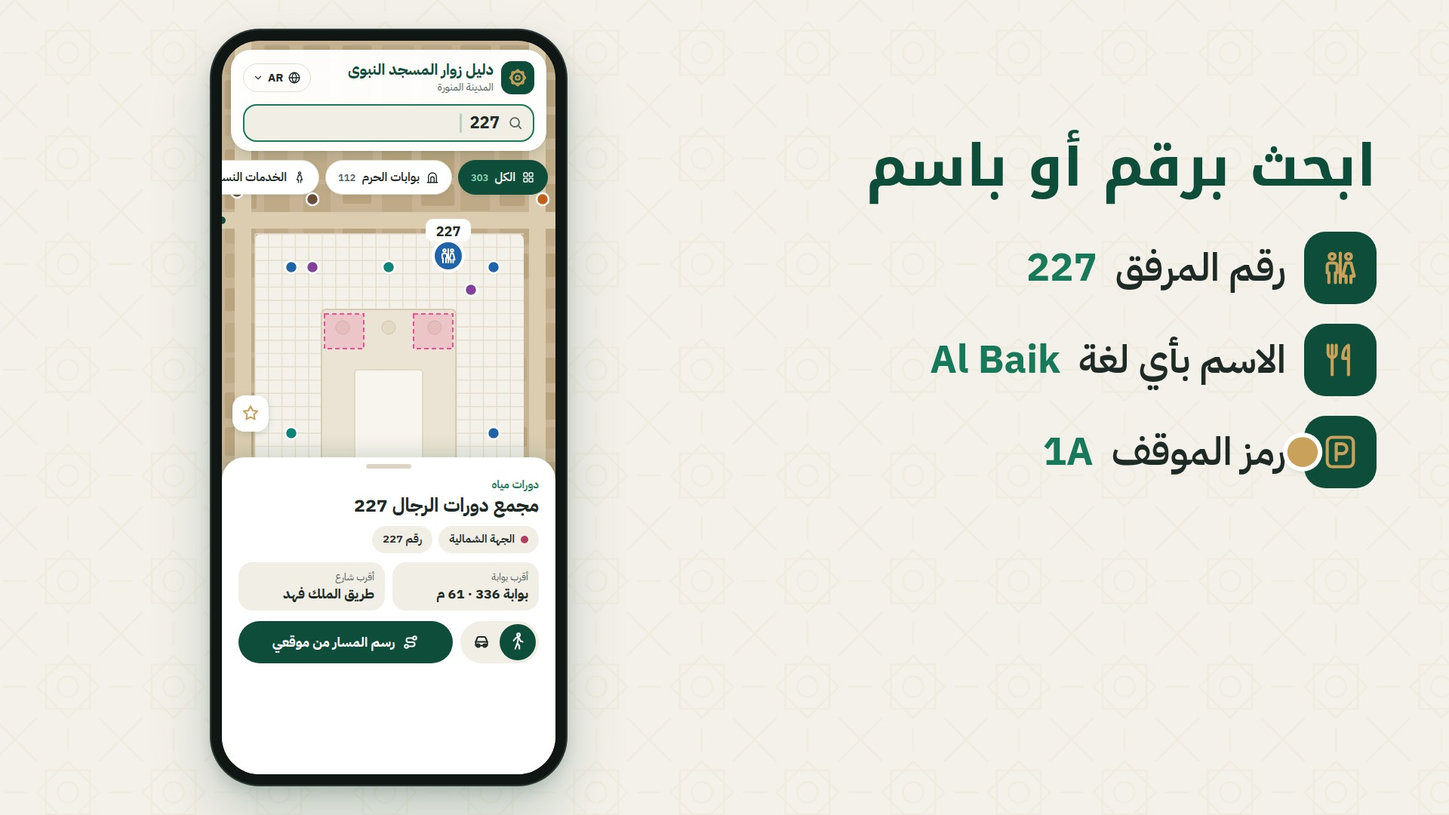
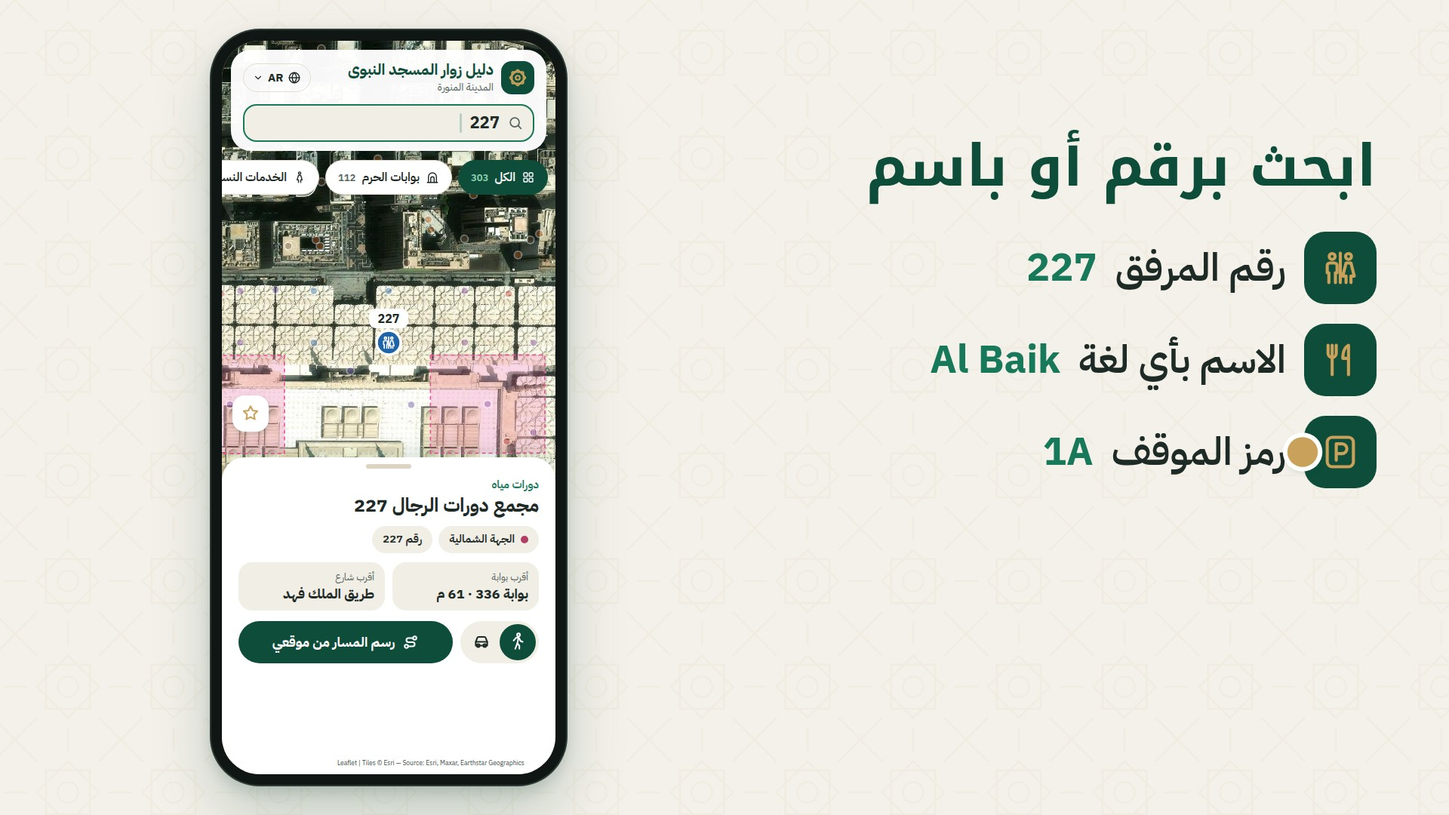
Courtyard film: the app's real map (Esri base) with real places and routes
The phone map now uses the app's satellite base at its real scale, with the POIs,
women's prayer areas, the walking route to 227 and the drive to 226 through car
park 9 level A as computed by the app's own router.

Claude-Session: https://claude.ai/code/session_01W7SsWz3AA39gRjAKeSkiDN

Changed region(s): [[0.1562, 0.0611, 0.4062, 0.5806], [0.1562, 0.0306, 0.375, 0.0917], [0.25, 0.9167, 0.3438, 0.9472]]

diff --git a/video/courtyard/src.html b/video/courtyard/src.html
@@ -36,6 +36,8 @@ svg.ic { display: block; }
 #phone { left: 3160px; top: 40px; width: 470px; height: 1000px; border-radius: 64px; background: #101614; box-shadow: 0 0 0 2px #2b3833, 0 40px 80px rgb(14 77 58 / .22), 0 8px 20px rgb(30 42 38 / .18); }
 #scr { position: absolute; left: 14px; top: 14px; width: 442px; height: 972px; border-radius: 50px; overflow: hidden; background: #c8b494; }
 #scr .layer { position: absolute; inset: 0; }
+#sat { position: absolute; left: 0; top: 0; transform-origin: 0 0; max-width: none; }
+#attr { position: absolute; right: 34px; bottom: 6px; z-index: 30; padding: 2px 7px 3px; border-radius: 6px; background: rgb(255 255 255 / .82); color: #3d4a45; font: 500 8.5px/1.2 var(--f); direction: ltr; white-space: nowrap; }
 .card-w { background: rgb(255 255 255 / .97); border-radius: 26px; box-shadow: 0 6px 18px rgb(14 77 58 / .14), 0 1px 3px rgb(30 42 38 / .1); }
 #hdr { position: absolute; left: 12px; top: 12px; width: 418px; height: 134px; padding: 14px 16px; }
 #hdr .row { display: flex; align-items: center; gap: 10px; }
@@ -145,7 +147,7 @@ svg.ic { display: block; }
 
   <!-- the phone -->
   <div id="phone" class="abs"><div id="scr">
-    <svg class="layer" id="map" width="442" height="972" viewBox="0 0 442 972"></svg>
+    <div class="layer" id="mapv"><img id="sat" src="map-z18.jpg" alt=""><svg class="layer" id="map" width="442" height="972" viewBox="0 0 442 972"></svg></div>
     <div id="starbtn"></div>
     <div id="hdr" class="card-w"><div class="row" id="hrow"><span class="tile" id="h-tile"></span><div class="tt"><div class="t" id="h-t"></div><div class="c" id="h-c"></div></div><span class="lang" id="h-lang"></span></div>
       <div class="sb" id="h-sb"><span id="h-si"></span><span id="h-ph"></span><span class="q" id="h-q"></span><span class="caret" id="h-caret"></span></div></div>
@@ -159,10 +161,10 @@ svg.ic { display: block; }
       <div class="foot"><span class="tog" id="tog1"><span class="kn" style="left:52px"></span><span class="o" style="left:4px" id="t1c"></span><span class="o" style="left:52px;color:#fff" id="t1w"></span></span><span class="btn" style="flex:1" id="rbtn"><span id="rbtn-i"></span>رسم المسار من موقعي</span></div></div>
     <div id="sh-route" class="sheet" style="height:300px"><span class="grab"></span>
       <div class="k" id="sr-k">مسار المشي</div><div class="h">مجمع دورات الرجال 227</div>
-      <div style="display:flex;align-items:baseline;gap:18px;margin-top:8px"><span class="big"><span id="sr-m" style="direction:ltr;display:inline-block">420</span> م</span><span class="big" style="color:var(--g700)"><span id="sr-min" style="direction:ltr;display:inline-block">6</span> د</span><span class="chip"><span class="dotc" style="--c:#b03f66"></span>الشمالية</span></div>
+      <div style="display:flex;align-items:baseline;gap:18px;margin-top:8px"><span class="big"><span id="sr-m" style="direction:ltr;display:inline-block">415</span> م</span><span class="big" style="color:var(--g700)"><span id="sr-min" style="direction:ltr;display:inline-block">6</span> د</span><span class="chip"><span class="dotc" style="--c:#b03f66"></span>الشمالية</span></div>
       <div class="foot"><span class="tog" id="tog2"><span class="kn" id="kn2" style="left:52px"></span><span class="o" style="left:4px" id="t2c"></span><span class="o" style="left:52px" id="t2w"></span></span><span class="btn" style="flex:1;background:#f1eee6;color:var(--ink)" id="exitb"><span id="exit-i"></span><span id="exit-t">إنهاء المسار</span></span></div></div>
     <div id="sh-car" class="sheet" style="height:330px"><span class="grab"></span>
-      <div class="k">مسار بالسيارة</div><div class="h">مجمع دورات الرجال 227</div>
+      <div class="k">مسار بالسيارة</div><div class="h">مجمع دورات الرجال 226</div>
       <div class="chips"><span class="chip" style="background:var(--g900);color:#fff">موقف رقم 9 · الدور A</span><span class="chip">الإطار الأصفر: الطريق في الدور A</span></div>
       <div class="foot"><span class="btn" style="flex:1" id="cexit"><span id="cexit-i"></span>طريق الخروج</span></div></div>
     <div id="story"><div class="bars"><div class="bar"><i id="sb1"></i></div><div class="bar"><i id="sb2"></i></div><div class="bar"><i id="sb3"></i></div></div>
@@ -171,7 +173,7 @@ svg.ic { display: block; }
       <div class="tx" id="st-tx"></div>
       <div class="bt" id="st-bt"><span><span id="st-b1"></span>اعرضه على الخريطة</span><span><span id="st-b2"></span>المسار إليه</span></div>
       <div class="pray" id="st-pray"><div class="p1">اللهم صل وسلم على نبينا محمد</div><div class="p2">صلِّ على النبي ﷺ</div></div></div>
-  </div></div>
+  <div id="attr">Leaflet | Tiles © Esri — Source: Esri, Maxar, Earthstar Geographics</div></div></div>
 
   <!-- headline column, one block per scene -->
   <div class="abs col">
@@ -184,7 +186,7 @@ svg.ic { display: block; }
       <div class="row" id="p3b"><span class="ti" id="p3b-i"></span>الاسم بأي لغة <span class="lt">Al Baik</span></div>
       <div class="row" id="p3c"><span class="ti" id="p3c-i"></span>رمز الموقف <span class="lt">1A</span></div></div>
     <div class="hl" id="p4" style="top:170px"><h2>امشِ إليه</h2>
-      <div class="big2"><b id="b-m">420</b><span>متر</span></div>
+      <div class="big2"><b id="b-m">415</b><span>متر</span></div>
       <div class="big2" style="margin-top:-6px"><b id="b-min" style="font-size:110px">6</b><span>دقائق تقريباً</span></div>
       <div class="note">لا يُطلب موقعك حتى تضغط</div></div>
     <div class="hl" id="p5" style="top:170px"><h2>بالسيارة</h2>
@@ -242,48 +244,85 @@ $('rtrack').innerHTML = [...DATA.NAMES, ...DATA.NAMES].map((x) => `<span dir="${
 // filter pills (real labels and counts from the app)
 const PILLS = [['grid', 'الكل', 303], ['gate', 'بوابات الحرم', 112], ['women', 'الخدمات النسائية', 35], ['toilets', 'دورات مياه', 40], ['hotel', 'فنادق', 43], ['food', 'مطاعم ومقاهي', 44], ['landmark', 'معالم', 38], ['parking', 'مواقف السيارات', 13]];
 
-// ---- the stylised aerial plan (no tiles): ochre city, ivory courtyard grid, pale-stone mosque, red roofs south ----
-(function drawMap() {
+// ---- the app's own map: its satellite base (Esri World Imagery, z18) and everything at its real coordinates ----
+// GEO comes from the app's data and router (tools/geo.test.ts); TILES from fetch-tiles.py.
+const merc = (ll) => { const n = 256 * 2 ** 18; return [(ll[1] + 180) / 360 * n, (1 - Math.asinh(Math.tan(ll[0] * Math.PI / 180)) / Math.PI) / 2 * n]; };
+const LAT0 = 24.468, M_LAT = 110574, M_LNG = 111320 * Math.cos(LAT0 * Math.PI / 180);
+function line(path) { const cum = [0]; for (let i = 1; i < path.length; i++) cum.push(cum[i - 1] + Math.hypot((path[i][0] - path[i - 1][0]) * M_LAT, (path[i][1] - path[i - 1][1]) * M_LNG)); return { path, cum, L: cum[cum.length - 1] }; }
+function along(r, d) {
+  d = clamp(d, 0, r.L); let i = 1; while (i < r.cum.length - 1 && r.cum[i] < d) i++;
+  const u = (d - r.cum[i - 1]) / (r.cum[i] - r.cum[i - 1] || 1), a = r.path[i - 1], b = r.path[i];
+  return [lerp(a[0], b[0], u), lerp(a[1], b[1], u)];
+}
+function cut(r, d0, d1) { if (d1 <= d0) return []; const out = [along(r, d0)]; for (let i = 0; i < r.path.length; i++) if (r.cum[i] > d0 && r.cum[i] < d1) out.push(r.path[i]); out.push(along(r, d1)); return out; }
+const dedupe = (parts) => parts.flatMap((p, i) => (i ? p.path.slice(1) : p.path));
+const WALKR = line(GEO.walk.path);
+const CARR = line(dedupe(GEO.drive.parts));
+let acc = 0; const CARPARTS = GEO.drive.parts.map((p) => { const L = line(p.path).L; const r = { on: p.on, d0: acc, d1: acc + L }; acc += L; return r; });
+const EXITR = line(dedupe(GEO.exit.parts));
+const bboxC = (pts) => { const la = pts.map((p) => p[0]), lo = pts.map((p) => p[1]); return [(Math.min(...la) + Math.max(...la)) / 2, (Math.min(...lo) + Math.max(...lo)) / 2]; };
+const C0 = [24.468431, 39.611024], WALKC = bboxC(GEO.walk.path), CARC = bboxC(CARR.path);
+// the map's own camera inside the phone: [t, lat/lng held at (221, sy), zoom, sy]
+const MAPCAM = [[0, C0, 16.2, 540], [13.5, C0, 16.2, 540], [14.5, GEO.p227, 17.2, 400], [18.5, GEO.p227, 17.2, 400], [19.3, WALKC, 17.45, 440],
+  [26.5, WALKC, 17.45, 440], [27.3, CARC, 16.3, 430], [32.6, CARC, 16.3, 430], [33.5, C0, 16.2, 540], [60, C0, 16.2, 540]];
+function mapAt(t) {
+  let i = 1; while (i < MAPCAM.length - 1 && MAPCAM[i][0] < t) i++;
+  const [t0, a0, z0, y0] = MAPCAM[i - 1], [t1, a1, z1, y1] = MAPCAM[i], u = eio(pr(t, t0, t1));
+  const A0 = merc(a0), A1 = merc(a1);
+  return { X: lerp(A0[0], A1[0], u), Y: lerp(A0[1], A1[1], u), k: 2 ** (lerp(z0, z1, u) - 18), sy: lerp(y0, y1, u) };
+}
+const proj = (ll, m) => { const [X, Y] = merc(ll); return [221 + (X - m.X) * m.k, m.sy + (Y - m.Y) * m.k]; };
+const d3 = (pts, m) => pts.map((ll, i) => { const [x, y] = proj(ll, m); return `${i ? 'L' : 'M'}${x.toFixed(1)} ${y.toFixed(1)}`; }).join('');
+// chevrons every 30 px along a projected line, pointing the way
+function chevrons(pts, m, col) {
+  const P = pts.map((ll) => proj(ll, m)); let s = '', next = 16, run = 0;
+  for (let i = 1; i < P.length; i++) {
+    const [ax, ay] = P[i - 1], [bx, by] = P[i], seg = Math.hypot(bx - ax, by - ay), ang = Math.atan2(by - ay, bx - ax) * 180 / Math.PI;
+    while (next <= run + seg) { const u = (next - run) / seg; s += `<path transform="translate(${(ax + (bx - ax) * u).toFixed(1)} ${(ay + (by - ay) * u).toFixed(1)}) rotate(${ang.toFixed(1)})" d="M-3 -4.5L2 0L-3 4.5" fill="none" stroke="${col}" stroke-width="2.2" stroke-linecap="round" stroke-linejoin="round"/>`; next += 30; }
+    run += seg;
+  }
+  return s;
+}
+const badge = (xy, text, bg, fg, bd = 'none') => `<g transform="translate(${xy[0].toFixed(1)} ${xy[1].toFixed(1)})"><rect x="${-text.length * 6 - 10}" y="-14" width="${text.length * 12 + 20}" height="28" rx="9" fill="${bg}" stroke="${bd}" stroke-width="2.5"/><text x="0" y="6.5" text-anchor="middle" font-family="IBM Plex Sans Arabic" font-weight="700" font-size="17" fill="${fg}" direction="ltr">${text}</text></g>`;
+const pin = (xy, label, col, icon, op) => `<g opacity="${op}"><g transform="translate(${xy[0].toFixed(1)} ${xy[1].toFixed(1)})"><circle r="16" fill="${col}" stroke="#fff" stroke-width="3.5"/><g transform="translate(-10 -10)" color="#fff">${ic(icon, 20, 2)}</g>${label ? `<g transform="translate(0 -32)"><rect x="-26" y="-13" width="52" height="26" rx="9" fill="#fff"/><text x="0" y="6" text-anchor="middle" font-family="IBM Plex Sans Arabic" font-weight="700" font-size="16" fill="#1e2a26">${label}</text></g>` : ''}</g></g>`;
+
+function renderMap(t) {
+  const m = mapAt(t);
+  set('sat', { transform: `translate(${(221 - (m.X - TILES.x0 * 256) * m.k).toFixed(2)}px, ${(m.sy - (m.Y - TILES.y0 * 256) * m.k).toFixed(2)}px) scale(${m.k})` });
   let s = '';
-  let seed = 7; const rnd = () => ((seed = (seed * 16807) % 2147483647) / 2147483647);
-  for (let y = 0; y < 972; y += 46) for (let x = 0; x < 442; x += 52) { const w = 30 + rnd() * 16, h = 26 + rnd() * 14; s += `<rect x="${x + 4}" y="${y + 6}" width="${w}" height="${h}" rx="3" fill="${rnd() > .5 ? '#b9a37f' : '#bfaa88'}"/>`; }
-  s += '<path d="M0 238H442M0 760H442M28 0V972M418 0V972" stroke="#dccdb1" stroke-width="22"/>';
-  s += '<rect x="44" y="256" width="356" height="484" rx="8" fill="#f4f1ea"/>';
-  let g = '';
-  for (let x = 44; x <= 400; x += 17.8) g += `M${x} 256V740`;
-  for (let y = 256; y <= 740; y += 17.6) g += `M44 ${y}H400`;
-  s += `<path d="${g}" stroke="#e4ddcd" stroke-width="1.4"/>`;
-  s += '<rect x="132" y="356" width="178" height="244" rx="6" fill="#ebe3d3" stroke="#d6cbb5" stroke-width="2"/>';
-  s += '<rect x="176" y="436" width="90" height="124" rx="4" fill="#f8f5ee" stroke="#ddd3bf" stroke-width="1.5"/>';
-  for (const [cx, cy] of [[160, 380], [282, 380], [160, 580], [282, 580], [221, 380]]) s += `<circle cx="${cx}" cy="${cy}" r="9" fill="#e3d9c5" stroke="#d2c6ae"/>`;
-  s += '<rect x="136" y="362" width="52" height="46" fill="rgb(236 79 154 / .2)" stroke="#ec4f9a" stroke-width="2" stroke-dasharray="6 4"/>';
-  s += '<rect x="254" y="362" width="52" height="46" fill="rgb(236 79 154 / .2)" stroke="#ec4f9a" stroke-width="2" stroke-dasharray="6 4"/>';
-  for (let x = 64; x < 380; x += 54) s += `<rect x="${x}" y="702" width="44" height="26" rx="2" fill="#b5574a"/>`;
-  const DOTS = [['men', 92, 300], ['women', 120, 300], ['men', 360, 300], ['women', 330, 330], ['acc', 92, 520], ['men', 360, 520], ['women', 96, 640], ['men', 352, 650], ['hotel', 20, 200], ['food', 425, 210], ['hotel', 410, 800], ['food', 30, 820], ['land', 221, 640], ['emg', 330, 690], ['acc', 221, 300], ['hotel', 120, 210], ['food', 300, 790]];
-  for (const [c, x, y] of DOTS) s += `<circle cx="${x}" cy="${y}" r="8" fill="var(--${c})" stroke="#fff" stroke-width="2.5"/>`;
-  // walking route (around the mosque, never through it)
-  s += '<path id="walk" d="M48 708V300Q48 285 63 285H300" fill="none" stroke="#17785a" stroke-width="12" stroke-linecap="round" stroke-linejoin="round" pathLength="1" stroke-dasharray="0 2" opacity=".25"/>';
-  s += '<path id="walk-lit" d="M48 708V300Q48 285 63 285H300" fill="none" stroke="#17785a" stroke-width="12" stroke-linecap="round" stroke-linejoin="round" pathLength="1" stroke-dasharray="0 2"/>';
-  s += '<path id="walk-chev" d="M48 708V300Q48 285 63 285H300" fill="none" stroke="#fff" stroke-width="3" stroke-dasharray="7 16" stroke-linecap="round" opacity="0"/>';
-  // car: street → underground ring (clockwise, one-way) → yellow ramp up to level A → P 9A; green exit ramp
-  s += '<g id="ug" opacity="0"><rect x="0" y="0" width="442" height="972" fill="rgb(14 77 58 / .32)"/>';
-  s += '<path d="M120 300H322Q340 300 340 318V350Q340 368 322 368H120Q102 368 102 350V318Q102 300 120 300Z" fill="none" stroke="#2c4a3f" stroke-width="30"/>';
-  let ch = '';
-  for (const [x, y, a] of [[170, 300, 0], [250, 300, 0], [340, 334, 90], [270, 368, 180], [180, 368, 180], [102, 334, 270]]) ch += `<path transform="translate(${x} ${y}) rotate(${a})" d="M-6 -7L4 0L-6 7" fill="none" stroke="#fff" stroke-width="3" stroke-linecap="round" stroke-linejoin="round"/>`;
-  s += ch;
-  s += '<path d="M340 330H404V238" fill="none" stroke="#3f7d20" stroke-width="10" stroke-dasharray="10 8" stroke-linecap="round"/>';
-  s += '<path id="ramp" d="M110 300V262H228" fill="none" stroke="#f5d90a" stroke-width="12" stroke-linecap="round" stroke-linejoin="round"/>';
-  s += '<g transform="translate(110 318)"><rect x="-24" y="-16" width="48" height="32" rx="10" fill="#f5d90a"/><text x="0" y="8" text-anchor="middle" font-family="IBM Plex Sans Arabic" font-weight="700" font-size="20" fill="#1e2a26">A↑</text></g>';
-  s += '<g transform="translate(228 262)"><rect x="-34" y="-18" width="68" height="36" rx="10" fill="#fff" stroke="#1f64a8" stroke-width="3"/><text x="0" y="8" text-anchor="middle" font-family="IBM Plex Sans Arabic" font-weight="700" font-size="20" fill="#1f64a8" direction="ltr">P 9A</text></g></g>';
-  s += '<path id="car" d="M0 238H150Q166 238 166 254V300H322Q340 300 340 318V350Q340 368 322 368H120Q102 368 102 350V318Q102 300 110 300" fill="none" stroke="#0e4d3a" stroke-width="10" stroke-linecap="round" stroke-linejoin="round" pathLength="1" stroke-dasharray="0 2"/>';
-  // destination marker 227 (men's restrooms)
-  s += '<g transform="translate(300 285)"><circle r="20" fill="#1f64a8" stroke="#fff" stroke-width="4"/><g transform="translate(-12 -12)" color="#fff">' + ic('toilets', 24, 2) + '</g></g>';
-  s += '<g transform="translate(300 252)"><rect x="-30" y="-16" width="60" height="30" rx="10" fill="#fff"/><text x="0" y="7" text-anchor="middle" font-family="IBM Plex Sans Arabic" font-weight="700" font-size="18" fill="#1e2a26">227</text></g>';
-  s += '<circle cx="48" cy="708" r="9" fill="#fff" stroke="#17785a" stroke-width="3"/>';
+  for (const poly of GEO.women) s += `<path d="${d3([...poly, poly[0]], m)}" fill="rgb(236 79 154 / .22)" stroke="#ec4f9a" stroke-width="1.6" stroke-dasharray="5 4"/>`;
+  const focus = 1 - 0.6 * vis(t, 13.6, 32.8, 0.6, 0.6);  // places dim while a route is shown
+  for (const [la, lo, c] of GEO.pois) { const [x, y] = proj([la, lo], m); if (x > -10 && x < 452 && y > -10 && y < 982) s += `<circle cx="${x.toFixed(1)}" cy="${y.toFixed(1)}" r="5" fill="var(--${c})" stroke="#fff" stroke-width="1.8" opacity="${focus}"/>`; }
+  // walking route: drawn, then walked; the part already walked is gone
+  const wOn = 1 - pr(t, 26.8, 27.2), draw = eo(pr(t, 18.6, 19.5)) * WALKR.L, P = eio(pr(t, 19.4, 24.6)) * WALKR.L;
+  if (wOn > 0 && draw > 0) {
+    const rest = cut(WALKR, P, draw);
+    s += `<g opacity="${wOn}"><path d="${d3(cut(WALKR, 0, draw), m)}" fill="none" stroke="#17785a" stroke-width="9" stroke-linecap="round" stroke-linejoin="round" opacity=".25"/>`;
+    if (rest.length > 1) s += `<path d="${d3(rest, m)}" fill="none" stroke="#17785a" stroke-width="9" stroke-linecap="round" stroke-linejoin="round"/>${chevrons(rest, m, '#fff')}`;
+    const st = proj(WALKR.path[0], m); s += `<circle cx="${st[0]}" cy="${st[1]}" r="7" fill="#fff" stroke="#17785a" stroke-width="3"/></g>`;
+  }
+  // driving: car park 9, level B round to the yellow ramp, up to level A (yellow frame), into the lot; then the way out
+  const cOn = vis(t, 27.1, 32.4, 0.3, 0.6), cd = eo(pr(t, 27.1, 27.9)) * CARR.L, CP = eio(pr(t, 27.6, 31.4)) * CARR.L;
+  if (cOn > 0) {
+    s += `<g opacity="${cOn}">`;
+    const ex = eo(pr(t, 31.0, 31.5));
+    if (ex > 0) s += `<path d="${d3(EXITR.path, m)}" fill="none" stroke="var(--ramp-down)" stroke-width="6" stroke-dasharray="9 7" stroke-linecap="round" opacity="${ex}"/>`;
+    for (const part of CARPARTS) {
+      const seg = cut(CARR, Math.max(part.d0, CP), Math.min(part.d1, cd)); if (seg.length < 2) continue;
+      if (part.on !== 'B') s += `<path d="${d3(seg, m)}" fill="none" stroke="var(--ramp-up)" stroke-width="13" stroke-linecap="round" stroke-linejoin="round"/>`;
+      s += `<path d="${d3(seg, m)}" fill="none" stroke="#0e4d3a" stroke-width="7" stroke-linecap="round" stroke-linejoin="round"/>${chevrons(seg, m, '#fff')}`;
+    }
+    s += badge(proj(GEO.drive.ramp, m).map((v, i) => v + (i ? 22 : 0)), 'A↑', 'var(--ramp-up)', '#1e2a26');
+    s += badge(proj(GEO.drive.gate, m).map((v, i) => v - (i ? 24 : 0)), 'P 9A', '#fff', '#1f64a8', '#1f64a8');
+    s += '</g>';
+  }
+  s += pin(proj(GEO.p227, m), '227', 'var(--men)', 'toilets', vis(t, 13.4, 27.0, 0.4, 0.4));
+  s += pin(proj(GEO.p226, m), '226', 'var(--men)', 'toilets', vis(t, 27.2, 32.6, 0.4, 0.5));
+  s += pin(proj(GEO.p37, m), '', 'var(--g900)', 'dome', vis(t, 33.8, 38.8, 0.4, 0.5));
   $('map').innerHTML = s;
-})();
-const WALK = $('walk'), CAR = $('car'), RAMP = $('ramp');
-const WL = WALK.getTotalLength(), CL = CAR.getTotalLength(), RL = RAMP.getTotalLength();
+  return m;
+}
+const geoPH = (ll, t) => PH(...proj(ll, mapAt(t)));
 
 // ---- time ----
 const T = 60, FPS = 60;
@@ -298,7 +337,6 @@ const vis = (t, a, b, i = 0.5, o = 0.5) => Math.min(pr(t, a, a + i), 1 - pr(t, b
 
 // phone screen origin in world coordinates
 const SX = 3174, SY = 54, PH = (x, y) => [SX + x, SY + y];
-const onPath = (el, L, u) => { const p = el.getPointAtLength(u * L); return PH(p.x, p.y); };
 const QRC = [-2440 + 60 + 290, 100 + 60 + 290];
 
 // one camera: [t, cx, cy, zoom], zoom in log space
@@ -322,13 +360,12 @@ const MOVES = [
   [13.5, 13.9, PH(221, 192), 40],
   [14.6, 15.2, [4606, 355], 120], [15.6, 16.0, [4606, 477], 40], [16.4, 16.8, [4606, 599], 40],
   [17.2, 18.0, PH(190, 932), 160],
-  [18.2, 18.8, PH(48, 708), 120],
+  [18.2, 18.8, { g: GEO.walk.path[0] }, 120],
   [19.4, 24.6, 'walk'],
   [26.0, 26.6, PH(375, 932), 120],
-  [27.0, 27.6, PH(0, 238), 120],
-  [27.6, 30.6, 'car'],
-  [30.6, 31.4, 'ramp'],
-  [31.6, 32.4, PH(300, 285), 40],
+  [27.0, 27.6, { g: CARR.path[0] }, 120],
+  [27.6, 31.4, 'car'],
+  [31.6, 32.4, { g: GEO.p226 }, 40],
   [33.0, 33.8, PH(221, 898), 120],
   [34.2, 35.0, [4584, 534], 160],
   [38.6, 39.3, PH(58, 40), 140],
@@ -338,22 +375,23 @@ const MOVES = [
   [52.0, 52.4, [4500, 760], 60], [52.55, 52.9, [4170, 760], 30], [53.05, 53.4, [3840, 760], 30],
   [54.1, 55.9, QRC, 900],
 ];
+// a stop on the map ({ g: [lat, lng] }) stays glued to the map while it moves
+const at = (spec, t) => (Array.isArray(spec) ? spec : geoPH(spec.g, t));
 function dotAt(t) {
   let cur = [960, 760], land = -9;
   for (const [a, b, spec, h = 0] of MOVES) {
     if (t < a) break;
-    if (spec === 'walk' || spec === 'car' || spec === 'ramp') {
-      const u = eio(pr(t, a, b));
-      const p = spec === 'walk' ? onPath(WALK, WL, u) : spec === 'car' ? onPath(CAR, CL, u) : onPath(RAMP, RL, u);
-      if (t <= b) return { p, sq: 0 };
-      cur = p; land = b; continue;
+    if (spec === 'walk' || spec === 'car') {
+      const r = spec === 'walk' ? WALKR : CARR, ll = along(r, eio(pr(t, a, b)) * r.L);
+      if (t <= b) return { p: geoPH(ll, t), sq: 0 };
+      cur = { g: ll }; land = b; continue;
     }
     const r = pr(t, a, b);
-    if (t <= b) { const u = eio(r); return { p: [lerp(cur[0], spec[0], u), lerp(cur[1], spec[1], u) - h * Math.sin(Math.PI * r)], sq: 0 }; }
+    if (t <= b) { const u = eio(r), c = at(cur, t), e = at(spec, t); return { p: [lerp(c[0], e[0], u), lerp(c[1], e[1], u) - h * Math.sin(Math.PI * r)], sq: 0 }; }
     cur = spec; land = b;
   }
   const d = t - land;
-  return { p: cur, sq: d >= 0 && d < 0.5 ? 0.16 * Math.exp(-d * 10) * Math.cos(d * 26) : 0 };
+  return { p: at(cur, t), sq: d >= 0 && d < 0.5 ? 0.16 * Math.exp(-d * 10) * Math.cos(d * 26) : 0 };
 }
 
 let lastLang = '';
@@ -407,12 +445,9 @@ window.seek = function (t) {
   set('rbtn', { transform: `scale(${1 - 0.05 * Math.sin(Math.PI * pr(t, 17.95, 18.25))})` });
 
   // walk: route draws itself, then the dot walks it; the counter and the lit part come from the same progress
-  const draw = eo(pr(t, 18.6, 19.5)), P = eio(pr(t, 19.4, 24.6));
-  const walkOn = 1 - pr(t, 32.6, 33.2);
-  set(WALK, { strokeDasharray: `${draw} 2`, opacity: 0.25 * walkOn * (1 - pr(t, 26.8, 27.2)) });
-  set($('walk-lit'), { strokeDasharray: `${Math.max(0, draw - P)} 2`, strokeDashoffset: -P, opacity: walkOn * (1 - pr(t, 26.8, 27.2)) });
-  set($('walk-chev'), { opacity: draw * 0.9 * (1 - pr(t, 26.8, 27.2)) });
-  const m = Math.round((420 * (1 - P)) / 5) * 5;
+  renderMap(t);
+  const P = eio(pr(t, 19.4, 24.6));
+  const m = Math.round((GEO.walk.m * (1 - P)) / 5) * 5;
   $('sr-m').textContent = m; $('b-m').textContent = m;
   const mins = Math.ceil(m / 80); $('sr-min').textContent = mins; $('b-min').textContent = mins;
   const rin = spring(t - 18.6, 1.8, 0.85), rout = eio(pr(t, 32.6, 33.1));
@@ -423,16 +458,13 @@ window.seek = function (t) {
   set('t2w', { color: flip < 0.5 ? '#fff' : 'var(--ink)' }); set('t2c', { color: flip >= 0.5 ? '#fff' : 'var(--ink)' });
   const car = spring(t - 27.0, 1.8, 0.85), carOut = eio(pr(t, 32.6, 33.1));
   set('sh-car', { transform: `translateY(${(1 - car) * 360 + carOut * 360}px)`, opacity: t < 27 || t > 33.2 ? 0 : 1 });
-  set('ug', { opacity: vis(t, 27.0, 32.4, 0.6, 0.6) });
-  const cd = eo(pr(t, 27.1, 27.9)), CP = eio(pr(t, 27.6, 30.6));
-  set(CAR, { strokeDasharray: `${Math.max(0, cd - CP)} 2`, strokeDashoffset: -CP, opacity: 1 - pr(t, 32.4, 33.0) });
 
   // Rawdah bar returns; tapped at 34
   set('rbar', { opacity: t < 14 || t > 33 ? 1 : 0, transform: `scale(${1 - 0.04 * Math.sin(Math.PI * pr(t, 33.8, 34.1))})` });
 
   // story (scene 8)
   const so = spring(t - 45.2, 2.0, 0.9) * (1 - eio(pr(t, 49.8, 50.3)));
-  set('story', { opacity: clamp(so * 1.4), transform: `scale(${0.92 + 0.08 * so})` });
+  set('story', { opacity: clamp(so * 1.4), transform: `scale(${0.92 + 0.08 * so})` }); set('attr', { opacity: 1 - clamp(so * 1.4) });
   set('sb1', { width: 100 * pr(t, 45.2, 47.2) + '%' }); set('sb2', { width: 100 * pr(t, 47.2, 48.8) + '%' }); set('sb3', { width: 100 * pr(t, 48.8, 50.0) + '%' });
   const s2 = t >= 47.2, s3 = t >= 48.8;
   $('st-t').textContent = s2 ? 'مسجد القبلتين' : 'مسجد قباء';
@@ -448,7 +480,7 @@ window.seek = function (t) {
   const count = (id, to, a) => { $(id).textContent = String(Math.round(to * eo(pr(t, a, a + 1.2)))); };
   count('n316', 316, 6.2); count('n112', 112, 6.8); count('n13', 13, 7.4);
   [['p3a', 12.0], ['p3b', 15.6], ['p3c', 16.4]].forEach(([id, a]) => set(id, { opacity: eo(pr(t, a, a + 0.5)) }));
-  [['p5a', 30.6], ['p5b', 31.0], ['p5c', 31.8]].forEach(([id, a]) => set(id, { opacity: eo(pr(t, a, a + 0.5)) }));
+  [['p5a', 28.4], ['p5b', 31.0], ['p5c', 31.8]].forEach(([id, a]) => set(id, { opacity: eo(pr(t, a, a + 0.5)) }));
   [['p8a', 45.4], ['p8b', 47.2]].forEach(([id, a]) => set(id, { opacity: eo(pr(t, a, a + 0.5)) }));
   // Rawdah card: men's time, then the women's-time notes
   const wtime = t >= 36.6, wf = eo(pr(t, 36.6, 37.1));

diff --git a/video/courtyard/tools/geo.test.ts b/video/courtyard/tools/geo.test.ts
@@ -1,0 +1,40 @@
+// Extracts everything the film's phone map draws, from the app itself: the places (POIs), the women's
+// prayer areas, the walking route to 227 and the drive to 226 through car park 9, level A (the app's own
+// router, the same code the site runs). Writes video/courtyard/geo.json.
+// Run from the app checkout: cp <this> tests/unit/zz-geo.test.ts && GEO_OUT=<path>/geo.json npx vitest run tests/unit/zz-geo.test.ts
+import { test } from 'vitest';
+import fs from 'node:fs';
+import { POIS, POI_BY_ID, ROUTING } from '../../src/data';
+import { planRoute, planRoutes } from '../../src/routing/plan';
+import { garageExit } from '../../src/routing/garage';
+import { pathLength } from '../../src/routing/walk';
+
+const KIND: Record<string, string> = {
+  toilet_men: 'men', toilet_women: 'women', women_service: 'women', toilet_mixed: 'acc', toilet_elderly: 'acc',
+  hotel: 'hotel', food: 'food', landmark: 'land', historic: 'land', lost_found: 'emg', health: 'emg', service: 'emg', lost_children: 'emg', child_care: 'emg',
+};
+const r7 = (ll: number[]) => [+ll[0].toFixed(7), +ll[1].toFixed(7)];
+
+test('film geo', async () => {
+  // walking: from inside the mosque (north-east) to the men's restrooms 227
+  const WALK_FROM: [number, number] = [24.469, 39.6125];
+  const walk = await planRoute(WALK_FROM, POI_BY_ID.get(227)!, 'walk');
+  const walkPath = walk.legs.flatMap((l) => l.path);
+  // driving to 226 on level A: the app picks car park 9 through the Sultana entrance
+  const [drive] = await planRoutes([24.4745, 39.602], POI_BY_ID.get(226)!, 'drive', { level: 'A' });
+  const garage = drive.legs.find((l) => l.kind === 'garage')!;
+  const exit = garageExit(drive.lot!, 'sultana', 'A')!;
+  const geo = {
+    pois: POIS.filter((p) => KIND[p.subCategory]).map((p) => [...r7([p.lat, p.lng]), KIND[p.subCategory]]),
+    women: (ROUTING.women_prayer_areas ?? []).map((a) => a.polygon.map(r7)),
+    p227: r7([POI_BY_ID.get(227)!.lat, POI_BY_ID.get(227)!.lng]),
+    p226: r7([POI_BY_ID.get(226)!.lat, POI_BY_ID.get(226)!.lng]),
+    p37: r7([POI_BY_ID.get(37)!.lat, POI_BY_ID.get(37)!.lng]),
+    walk: { path: walkPath.map(r7), m: Math.round(pathLength(walkPath)), minutes: walk.minutes },
+    drive: { lot: drive.lot!.id, level: drive.level, entrance: drive.entrance, minutes: drive.minutes, walkM: Math.round(drive.walkM),
+      parts: garage.parts!.map((p) => ({ on: p.on, path: p.path.map(r7) })), ramp: r7(drive.ramps![0].at), gate: r7(drive.gate!) },
+    exit: { parts: exit.parts.map((p) => ({ on: p.on, path: p.path.map(r7) })) },
+  };
+  fs.writeFileSync(process.env.GEO_OUT!, JSON.stringify(geo));
+  console.log('pois', geo.pois.length, 'walk', geo.walk.m, 'm', geo.walk.minutes, 'min', 'drive lot', geo.drive.lot, geo.drive.level, geo.drive.parts.map((p) => p.on).join('>'), 'exit', geo.exit.parts.map((p) => p.on).join('>'));
+}, 120000);

diff --git a/video/courtyard/fetch-tiles.py b/video/courtyard/fetch-tiles.py
@@ -1,0 +1,29 @@
+"""Fetches the app's own satellite base map (Esri World Imagery, the URL in data/rules.json) for the area
+around the Prophet's Mosque and stitches it into map-z18.jpg, with its bounds in map-z18.json.
+Credit shown on screen wherever it appears: Tiles © Esri — Source: Esri, Maxar, Earthstar Geographics."""
+import io, json, math, os, sys, time, urllib.request
+from PIL import Image
+Z = 18
+URL = 'https://server.arcgisonline.com/ArcGIS/rest/services/World_Imagery/MapServer/tile/{z}/{y}/{x}'
+S, N, W, E = 24.4600, 24.4770, 39.6020, 39.6200
+def tile(lat, lng):
+    n = 2 ** Z
+    return (lng + 180) / 360 * n, (1 - math.asinh(math.tan(math.radians(lat))) / math.pi) / 2 * n
+x0, y0 = map(int, tile(N, W)); x1, y1 = map(int, tile(S, E))
+cache = os.path.join(os.path.dirname(__file__), 'tiles')
+img = Image.new('RGB', ((x1 - x0 + 1) * 256, (y1 - y0 + 1) * 256))
+for x in range(x0, x1 + 1):
+    for y in range(y0, y1 + 1):
+        f = os.path.join(cache, f'{Z}-{x}-{y}.jpg')
+        if not os.path.exists(f):
+            for k in range(4):
+                try:
+                    data = urllib.request.urlopen(URL.format(z=Z, x=x, y=y), timeout=30).read(); break
+                except Exception as e:
+                    time.sleep(2 ** k)
+            open(f, 'wb').write(data)
+        img.paste(Image.open(f).convert('RGB'), ((x - x0) * 256, (y - y0) * 256))
+out = os.path.join(os.path.dirname(__file__), 'map-z18.jpg')
+img.save(out, quality=88)
+json.dump({'z': Z, 'x0': x0, 'y0': y0, 'w': img.width, 'h': img.height}, open(out.replace('.jpg', '.json'), 'w'))
+print(out, img.size, (x1 - x0 + 1) * (y1 - y0 + 1), 'tiles')

diff --git a/video/courtyard/beat-map.md b/video/courtyard/beat-map.md
@@ -7,8 +7,8 @@
 | 1 | 0.0–5.0 | الترحيب · أخضر داكن وزخرفة ذهبية 6% | «دليل زوار المسجد النبوي» + خط ذهبي، والسطر يتبدّل: English · Türkçe · اردو · Indonesia · Français · Русский | النقطة تظهر 2.2 ث، الجوال يصعد 4.0 ث، والكاميرا تنزلق إلى العاجي 4.2–5.6 |
 | 2 | 5.0–11.0 | خريطة واحدة | «خريطة واحدة لكل شيء» · عدّادات 316 معلماً · 112 بوابة · 13 موقفاً بدورين | النقطة تقفز على الأزرار الحقيقية (الكل 303، بوابات الحرم 112 …) |
 | 3 | 11.0–18.0 | البحث | «ابحث برقم أو باسم» · 227 · Al Baik · 1A | كتابة 227 حرفاً حرفاً ← نتيجة ← بطاقة «مجمع دورات الرجال 227 · بوابة 336 · 61 م» |
-| 4 | 18.0–26.0 | المشي | «امشِ إليه» · العدّاد 420 → 0 م · الدقائق · «لا يُطلب موقعك حتى تضغط» | المسار يُرسم والنقطة والعدّاد على قيمة تقدّم واحدة (19.4–24.6) |
-| 5 | 26.0–33.0 | السيارة | «بالسيارة» · «موقف رقم 9 · الدور A» · «طريق الخروج» · «من الموقف إلى وجهتك مشياً» | المفتاح ينقلب 26.6؛ الحلقة تحت الأرض باتجاه عقارب الساعة، المنحدر الأصفر إلى الدور A، طريق الخروج الأخضر |
+| 4 | 18.0–26.0 | المشي | «امشِ إليه» · العدّاد 415 → 0 م · 6 دقائق · «لا يُطلب موقعك حتى تضغط» | مسار التطبيق الحقيقي من داخل المسجد إلى 227 (415 م)؛ المسار والنقطة والعدّاد على قيمة تقدّم واحدة (19.4–24.6) |
+| 5 | 26.0–33.0 | السيارة | «بالسيارة» · «موقف رقم 9 · الدور A» · «طريق الخروج» · «من الموقف إلى وجهتك مشياً» | المفتاح ينقلب 26.6؛ مسار التطبيق الحقيقي إلى 226 (اختياره: موقف 9 · الدور A عبر مدخل السلطانة): الدور B، المنحدر الأصفر إلى الدور A، ثم طريق الخروج الأخضر |
 | 6 | 33.0–39.0 | الروضة | بطاقة خضراء: «الروضة الشريفة · باب 37» · «الآن: وقت الرجال» ← «وقت النساء» 36.6 · حلقة العدّ · «باب 37 · يحتاج تصريح نسك» · «خلف الروضة للنساء · باب 21 · بدون تصريح» | النقطة تستقر داخل حلقة العدّ؛ شريط الروضة في الجوال يتبدّل معها |
 | 7 | 39.0–45.0 | 26 لغة | «26 لغة» · «كلٌّ باتجاه كتابته الصحيح» · شريط بأسماء اللغات الـ26 | واجهة الجوال تنقلب ar→en→ur→id→tr→zh→ar مع انعكاس الاتجاه |
 | 8 | 45.0–50.0 | المعالم | «معالم المدينة» · «قصص مصوّرة لتسعة معالم» · قباء · القبلتين | شرائح القصة بنصها من التطبيق، وزر «صلِّ على النبي ﷺ» وسطر الصلاة |
@@ -16,3 +16,5 @@
 | 10 | 54.0–60.0 | الختام | «افتح الخريطة، وسهّل زيارتك» · شعار الهيئة · masjidalnabawi.vercel.app | ابتعاد الكاميرا 53.8–55.0، انتقال إلى الأخضر، النقطة تصير مركز الرمز 55.9، ثبات 56.3–59.0، ثم عودة لإطار البداية 59–60 |
 
 **الرمز:** يُولَّد من الرابط الحقيقي، تصحيح خطأ H، 33 وحدة، الوحدة 17.6 بكسل (المطلوب ≥14)، وهامش أبيض 3.4 وحدات.
+
+**الخريطة:** خريطة التطبيق نفسها، أي صور Esri الفضائية على المركز نفسه ونفس مقياس الرسم، مع ذكر المصدر أسفل الشاشة. كل ما فوقها في موضعه الحقيقي من بيانات التطبيق: المعالم، ومصليات النساء، ومسارا المشي والسيارة كما يحسبهما موجّه التطبيق (tools/geo.test.ts).
